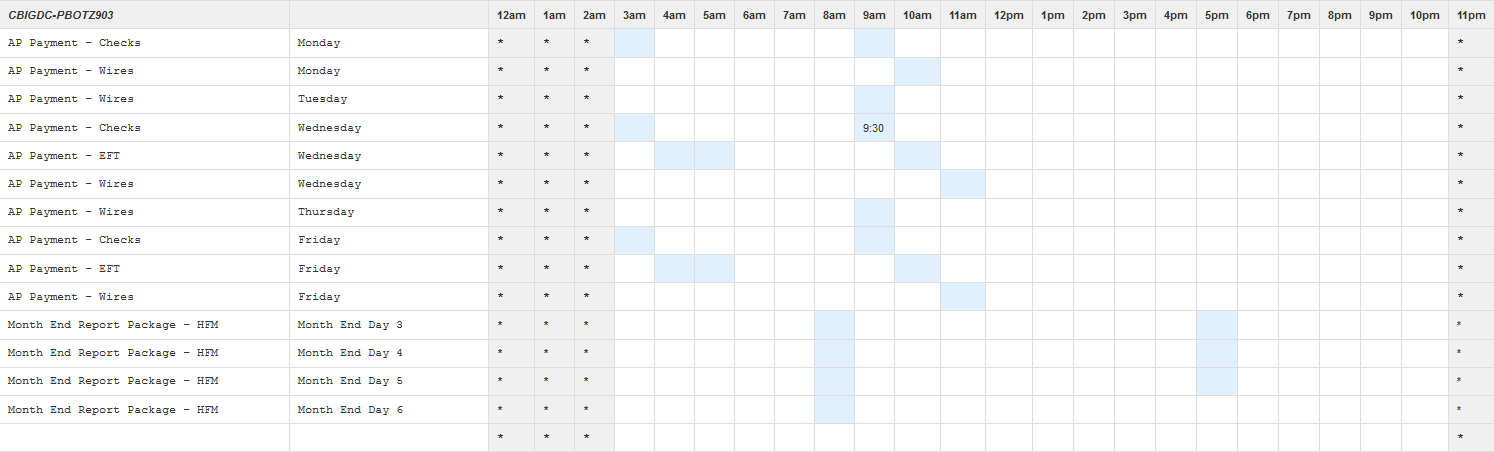
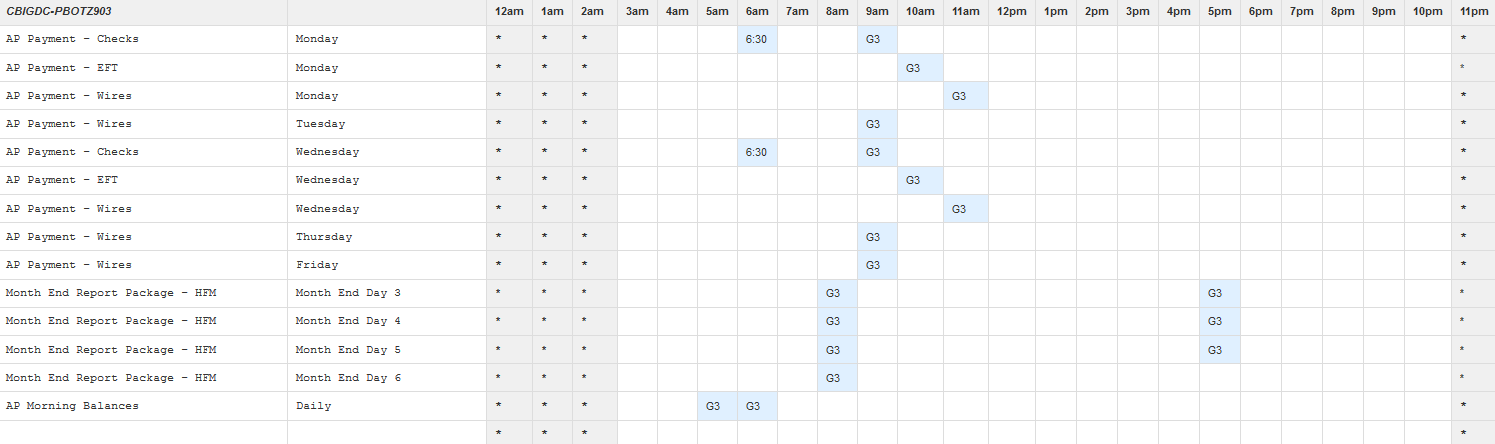
AP Morning Balances

diff --git a/js/openBotsSchedule.js b/js/openBotsSchedule.js
@@ -1,5 +1,5 @@
 /* 
- *  LAST UPDATED: 05/30/2019 
+ *  LAST UPDATED: 06/07/2019 
  *
  *  Below schedule is in military time. 
  *	-----------------------------------------------------------
@@ -69,11 +69,11 @@ self.botSched = function botSched(){
 
     //CBIGDC_PBOTZ903
     self.CBIGDCxPBOTZ903 = {
-        Monday:    ["AP Payment",3,9,10],
-        Tuesday:   ["AP Payment",9],
-        Wednesday: ["AP Payment",3,4,5,9,10,11],
-        Thursday:  ["AP Payment",9],
-        Friday:    ["AP Payment",3,4,5,9,10,11],
+        Monday:    ["AP Payment:*6*9*10*11*;AP Morning Balances:*5*6*",5,6,6,9,10,11],
+        Tuesday:   ["AP Payment:*9*;AP Morning Balances:*5*6*",5,6,9],
+        Wednesday: ["AP Payment:*6*9*10*11*;AP Morning Balances:*5*6*",5,6,6,9,10,11],
+        Thursday:  ["AP Payment:*9*;AP Morning Balances:*5*6*",5,6,9],
+        Friday:    ["AP Payment:*9*;AP Morning Balances:*5*6*",5,6,9],
         MEday3:    ["HFM",8,17],
         MEday4:    ["HFM",8,17],
         MEday5:    ["HFM",8,17],

diff --git a/js/printToScreen.js b/js/printToScreen.js
@@ -64,7 +64,7 @@ function printToScreen(bot, name){
                     } else {
                         document.getElementById(name+"_dupe").innerHTML = 
                         document.getElementById(name+"_dupe").innerHTML +
-                        "Schedule Overlap at: " + moment(bot[property][value] + ":00:00", 'HH:mm').format('h:mm A') + "</br>";
+                        "Possible Schedule Overlap at: " + moment(bot[property][value] + ":00:00", 'HH:mm').format('h:mm A') + "</br>";
                     }
                     bot[property][value] = moment(bot[property][value] + ":00:00", 'HH:mm').format('h:mm A');
                 } else {
